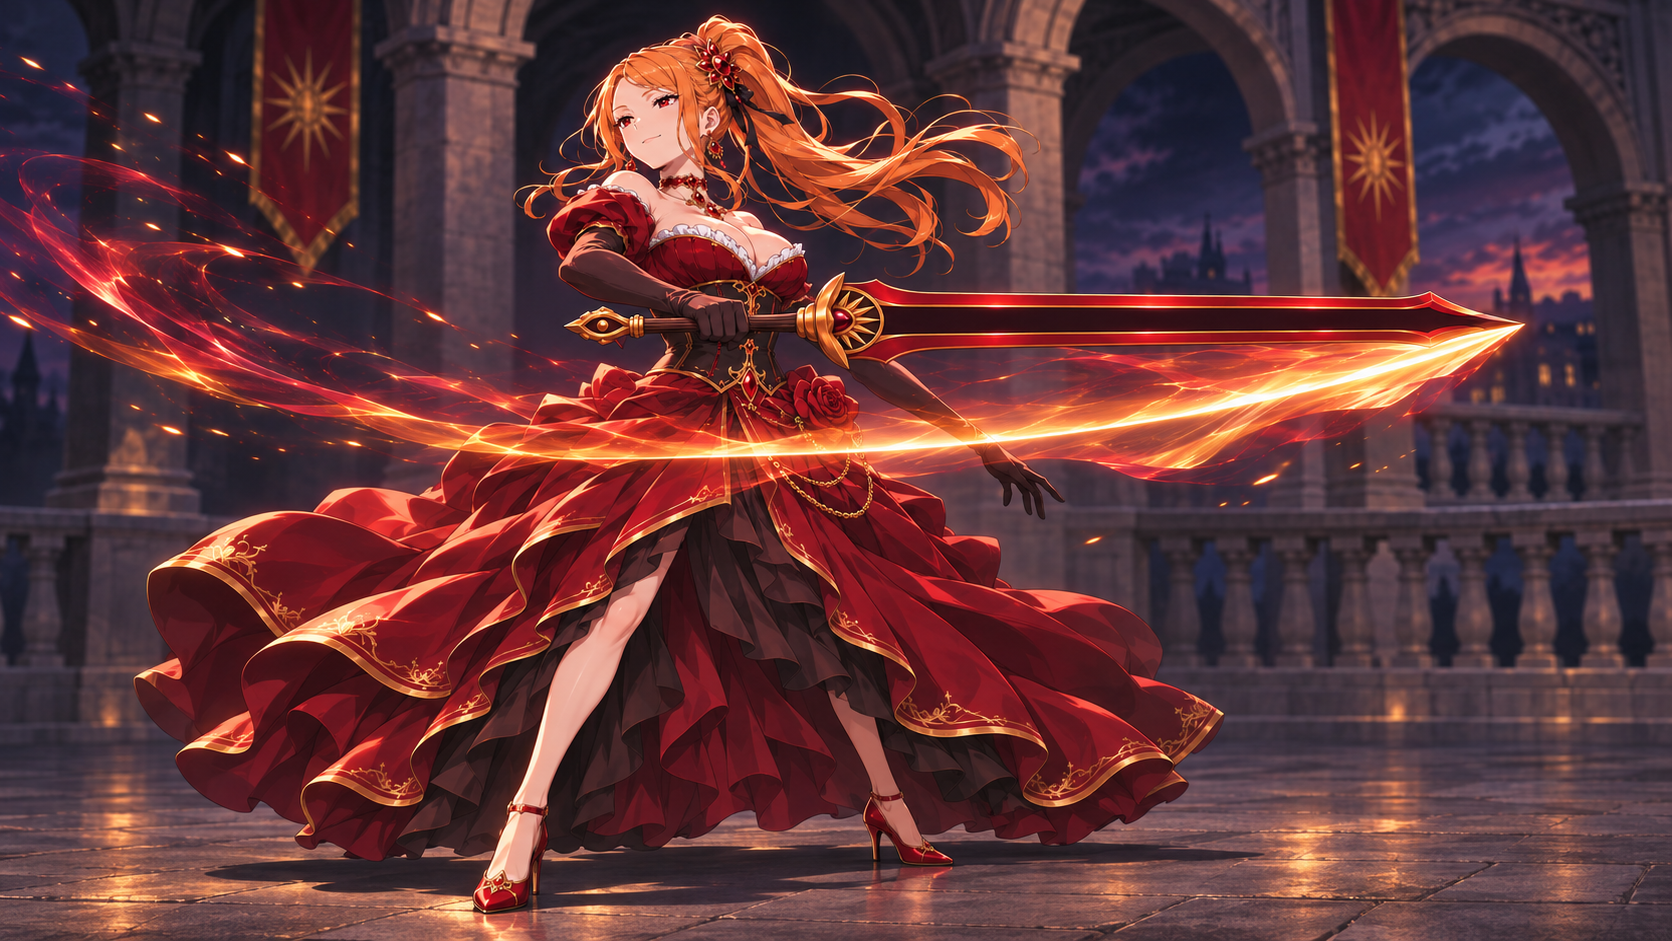
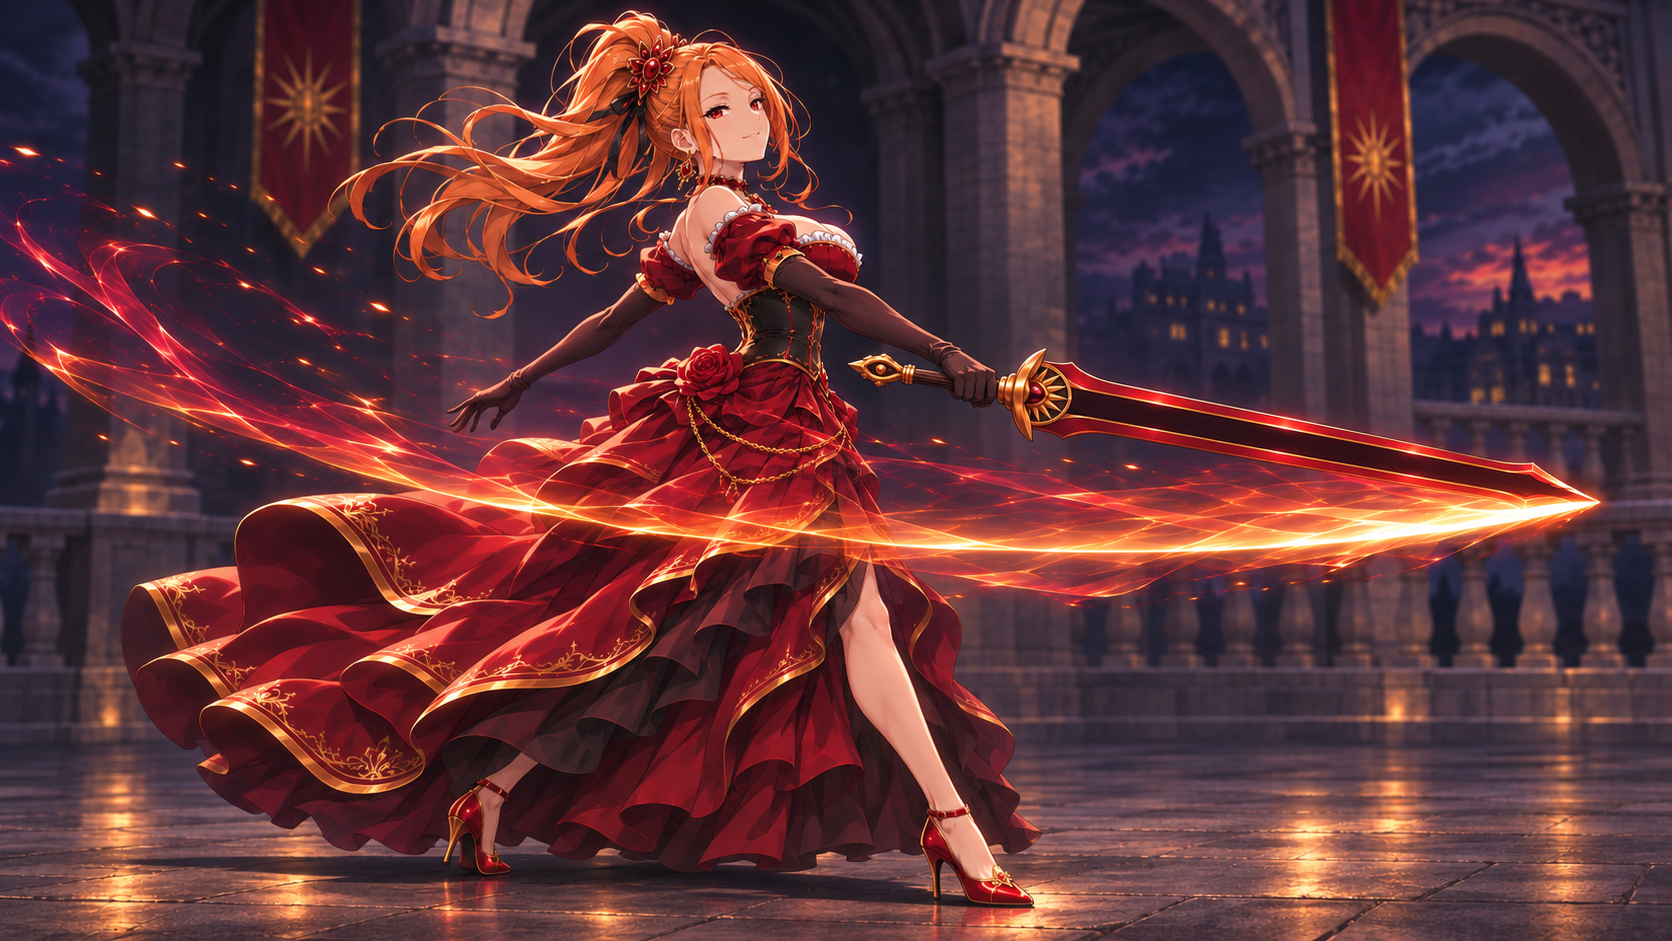
assets: 更新普莉希拉阳剑挥剑姿态参考

diff --git a/src/client/artworks.ts b/src/client/artworks.ts
@@ -134,7 +134,7 @@ export const artworks: Artwork[] = [
     title: '普莉希拉的阳剑 · 挥剑效果',
     category: 'prop',
     src: priscillaSunSwordSwing,
-    description: '普莉希拉右手挥剑，赤金光幕沿剑尖划过的浅弧掠过身前。',
+    description: '普莉希拉转身送出阳剑，赤金光幕沿剑尖划过的浅弧掠过身前。',
   },
   { id: 'P04-arakiya-branch', title: '亚拉基亚的树枝', category: 'prop', src: arakiyaBranch },
 ];

diff --git a/data/source-webp/chapter07/settings/props/03-priscilla-sun-sword.md b/data/source-webp/chapter07/settings/props/03-priscilla-sun-sword.md
@@ -14,4 +14,6 @@
 
 ![普莉希拉全身挥舞阳剑，赤金光幕掠过身前](sheets/03-priscilla-sun-sword-swing.png)
 
-这张全身图用于参考右手挥剑、双脚落点和裙摆随转身扬起的姿态。赤金光幕最亮的一端贴合当前剑尖，沿剑尖已经扫过的浅弧铺开。弧光从镜头一侧掠过腰线，金白亮脊、半透明的赤金光幕和沿轨迹散开的火星共同交代挥剑方向。实际分镜按当场动作和机位调整弧度与遮挡，剑身形制以上方侧视图为准。
+全身图定格在挥剑收势的一刻。普莉希拉的重心落向前脚，腰肩带动右臂把剑送到身前。右肘微屈，手腕顺着前臂，右手在护手后握紧剑柄，左臂向后打开以保持平衡。
+
+赤金光幕最亮的一端贴合当前剑尖，沿剑尖扫过的浅弧铺开。光幕从镜头一侧掠过腰线和裙摆，留出持剑手与护手的轮廓。实际分镜按当场动作和机位调整弧度与遮挡，剑身形制以上方侧视图为准。
